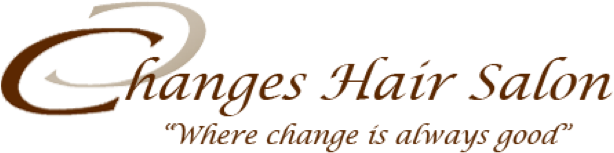
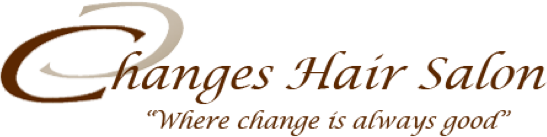
site update

diff --git a/home/Appointment.html b/home/Appointment.html
@@ -67,14 +67,6 @@ new NavBar('widget0', 'Scripts/Widgets/Navbar', 'Scripts/Widgets/SharedResources
           
 
 
-          <div style="height: 185px; width: 694px;  height: 185px; left: 3px; position: absolute; top: 12px; width: 694px; z-index: 1; " class="tinyText reflection_0">
-            <div style="position: relative; width: 694px; ">
-              <img src="Appointment_files/shapeimage_2.png" alt="" style="height: 153px; left: 0px; margin-left: 38px; margin-top: 3px; position: absolute; top: 0px; width: 614px; " />
-            </div>
-          </div>
-          
-
-
           <div id="id2" style="height: 100px; left: 230px; position: absolute; top: 539px; width: 240px; z-index: 1; " class="style_SkipStroke shape-with-text">
             <div class="text-content graphic_textbox_layout_style_default_External_240_100" style="padding: 0px; ">
               <div class="graphic_textbox_layout_style_default">
@@ -83,6 +75,14 @@ new NavBar('widget0', 'Scripts/Widgets/Navbar', 'Scripts/Widgets/SharedResources
                 <p class="paragraph_style">Wappingers Falls, NY 12590<br /></p>
                 <p style="padding-bottom: 0pt; " class="paragraph_style">845.296.7474</p>
               </div>
+            </div>
+          </div>
+          
+
+
+          <div style="height: 165px; width: 619px;  height: 165px; left: 40px; position: absolute; top: 18px; width: 619px; z-index: 1; " class="tinyText reflection_0">
+            <div style="position: relative; width: 619px; ">
+              <img src="Appointment_files/shapeimage_2.png" alt="" style="height: 137px; left: 0px; margin-left: 34px; margin-top: 2px; position: absolute; top: 0px; width: 547px; " />
             </div>
           </div>
           <div style="height: 639px; line-height: 639px; " class="spacer"> </div>

diff --git a/home/Welcome.html b/home/Welcome.html
@@ -57,9 +57,9 @@ new NavBar('widget0', 'Scripts/Widgets/Navbar', 'Scripts/Widgets/SharedResources
         </div>
         <div style="margin-left: 0px; position: relative; width: 700px; z-index: 5; " id="body_layer">
           <div style="height: 0px; line-height: 0px; " class="bumper"> </div>
-          <div style="height: 185px; width: 694px;  height: 185px; left: 3px; position: absolute; top: 12px; width: 694px; z-index: 1; " class="tinyText reflection_0">
-            <div style="position: relative; width: 694px; ">
-              <img src="Welcome_files/shapeimage_2.png" alt="" style="height: 153px; left: 0px; margin-left: 38px; margin-top: 3px; position: absolute; top: 0px; width: 614px; " />
+          <div style="height: 165px; width: 619px;  height: 165px; left: 40px; position: absolute; top: 18px; width: 619px; z-index: 1; " class="tinyText reflection_0">
+            <div style="position: relative; width: 619px; ">
+              <img src="Welcome_files/shapeimage_2.png" alt="" style="height: 137px; left: 0px; margin-left: 34px; margin-top: 2px; position: absolute; top: 0px; width: 547px; " />
             </div>
           </div>
           <div style="height: 1px; line-height: 1px; " class="tinyText"> </div>

diff --git a/home/Appointment_files/Appointment.js b/home/Appointment_files/Appointment.js
@@ -6,6 +6,6 @@ function hostedOnDM()
 {return false;}
 function onPageLoad()
 {loadMozillaCSS('Appointment_files/AppointmentMoz.css')
-adjustLineHeightIfTooBig('id1');adjustFontSizeIfTooBig('id1');adjustLineHeightIfTooBig('id2');adjustFontSizeIfTooBig('id2');Widget.onload();fixAllIEPNGs('Media/transparent.gif');applyEffects()}
+adjustLineHeightIfTooBig('id1');adjustFontSizeIfTooBig('id1');adjustLineHeightIfTooBig('id2');adjustFontSizeIfTooBig('id2');Widget.onload();fixupAllIEPNGBGs();fixAllIEPNGs('Media/transparent.gif');applyEffects()}
 function onPageUnload()
 {Widget.onunload();}
